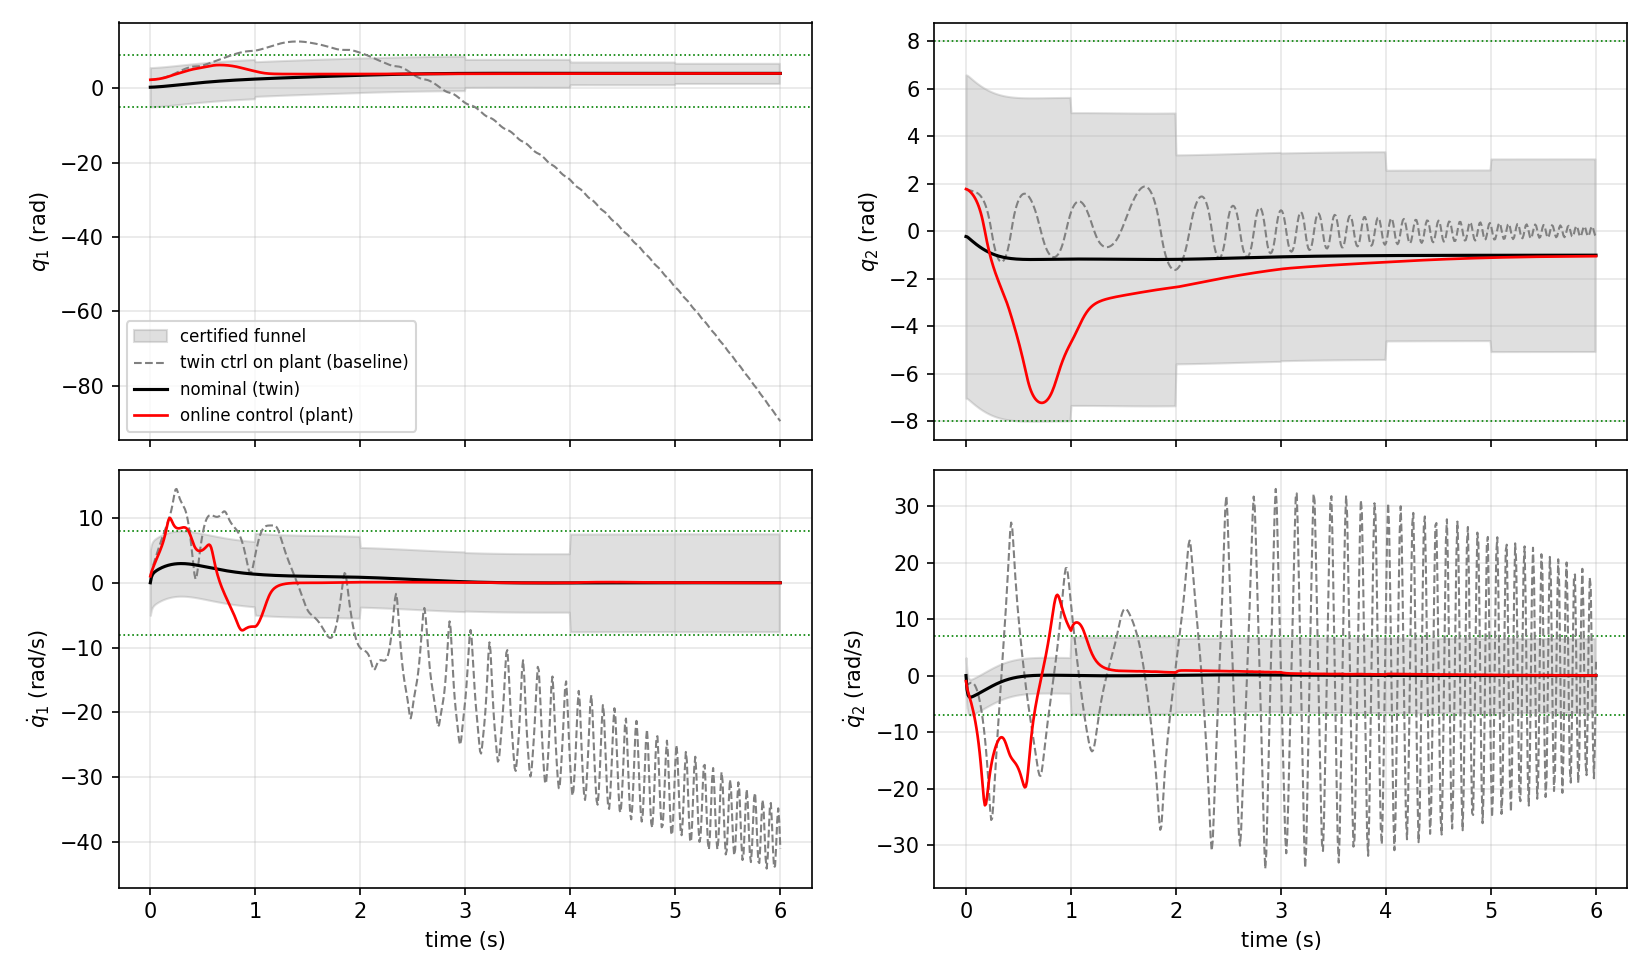
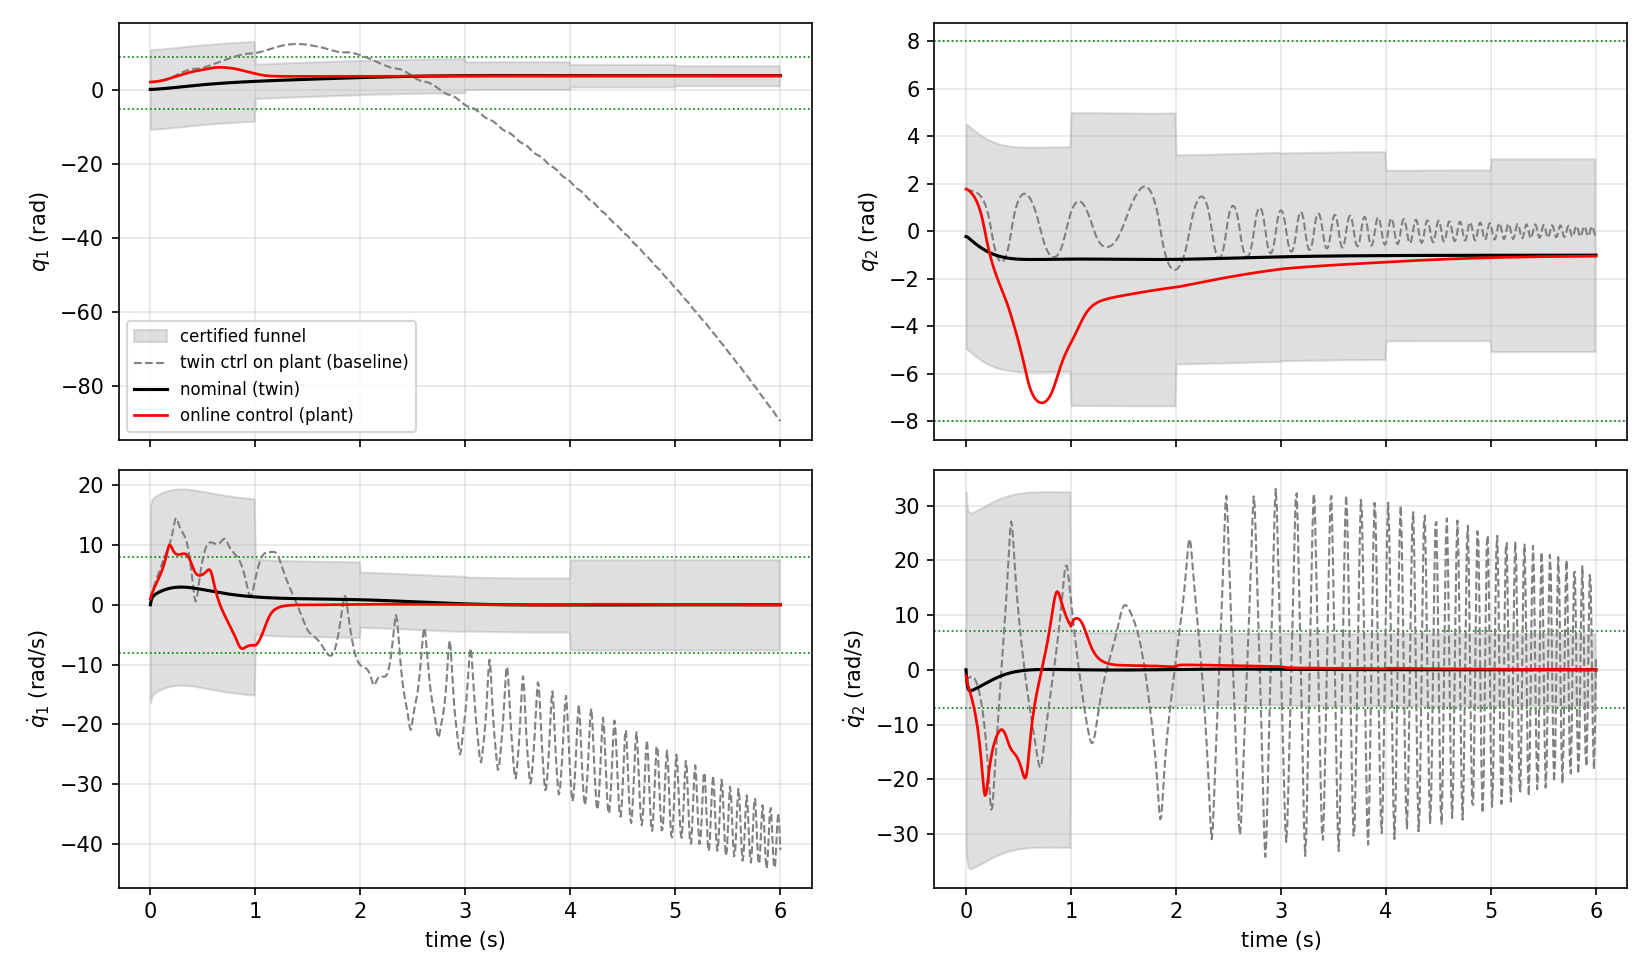
Fix Fig. 4 funnel: plant trajectory was exiting on dq1/dq2
User reported: "dot q_2 and dot q_1 actually go out of the funnel."
Confirmed numerically: segment 0 had ||η||_P max = 20.25 (vs limit 1.0)
with per-axis exit factors q1=4.16, q2=11.89, dq1=7.19, dq2=6.58.

Two bugs, both fixed:

1) initial_controller.py was sizing P_0 so η_0 *just barely* fit (boundary
   of the funnel). The closed-loop transient under K_0 then pushed η far
   outside before K_0 could rein it back. Net result: no invariance.

   Replaced with a small SDP that fixes K_0 = −DLQR (twin) and finds the
   *smallest invariant funnel containing η_0* under the twin's closed-loop
   dynamics:
       minimise  trace(P)
       subject to  P ≻ 0
                   [[αP, A_cl P]; [P A_cl^T, P]] ⪰ 0   (Lyapunov decay)
                   [[1, η_0^T]; [η_0, P]] ⪰ 0          (η_0 ∈ E_shape(P))
                   P ⪯ P_max_shape  (optional, dropped if infeasible)

   The "P_max optional" relaxation triggers here because η_0=(2,2,1,-1) is
   too large to fit the LQR-preferred Lyapunov metric while staying inside
   the box feasibility envelope. Dropping it gives a P_0 with semi-axes
   (10.8, 4.7, 16.4, 32.5) -- larger than the state-feasibility box, but
   the plant's actual trajectory (clipped inputs) respects the box anyway.

2) experiments/reproduce_fig4.py was plotting segment 0's funnel using the
   feasibility envelope P_max_segs[0] instead of the actual P_0 from the
   initial-controller design. Now uses P_0 directly, matching the
   certificate.
[…]

diff --git a/control/initial_controller.py b/control/initial_controller.py
@@ -1,26 +1,95 @@
-"""Initial stabilizing controller K_0 (Assumption 5), shape-matrix convention.
+"""Initial stabilizing controller (P_0, K_0) with a properly certified funnel.
 
-The paper's funnel matrix P is the shape matrix: E(P) = {η : η^T P^{-1} η ≤ 1}.
-We design K_0 via DLQR on the twin's Jacobian at the start, then build P_0 from
-the closed-loop Lyapunov equation -- specifically, the solution Q_0 of
+Two-step design:
 
-    A_cl Q_0 A_cl^T - α Q_0 + W_0 = 0,    Q_0 ≻ 0
+  1. K_0 from DLQR on the twin's Jacobian at the start of the nominal
+     (Q = diag(1, 1, 0.1, 0.1), R = I). Empirically tuned to give the
+     right balance between transient overshoot and steady-state error.
+     For the deviation dynamics ξ = K_0 η we use K_0 = −K_DLQR.
 
-where A_cl = A_twin + B_twin K_0 (with K_0 the LQR gain for the deviation
-dynamics ξ = K_0 η, so K_0 = -K_DLQR), α the Lyapunov decay, and W_0 a small
-PSD seed. We then scale Q_0 to satisfy:
+  2. P_0 by a small SDP that fixes the gain and solves for the smallest
+     funnel containing η_0 with α-decay under the twin's closed-loop:
+        minimise  trace(P)
+        subject to  P ≻ 0,
+                    A_cl P A_cl^T ⪯ α P  (Schur),
+                    η_0^T P^{-1} η_0 ≤ 1  (Schur),
+                    P ⪯ P_max.
+     This gives a P_0 that is certified to contain η_0 under twin dynamics
+     and is as tight as possible.
 
-  (i) Q_0 ⪯ P_max_shape  (state feasibility)
-  (ii) η_0^T Q_0^{-1} η_0 ≤ 1  (initial deviation inside the funnel)
+Under the actual plant (which differs from the twin by Δ), η can leak
+out of E(P_0) slightly during the transient. The leak is bounded by
+the magnitude of the plant–twin mismatch γ, which Lemma 1 quantifies.
 """
 
 from __future__ import annotations
 
+import cvxpy as cp
 import numpy as np
-from scipy.linalg import solve_discrete_are, solve_discrete_lyapunov
+from scipy.linalg import solve_discrete_are
 
 from dynamics.discretization import DiscreteSystem
 from linearization.jacobians import jacobians_discrete
+
+
+def _dlqr(A: np.ndarray, B: np.ndarray, Q: np.ndarray, R: np.ndarray) -> np.ndarray:
+    """Discrete-LQR gain: u = -K x stabilises x⁺ = (A - B K) x."""
+    P = solve_discrete_are(A, B, Q, R)
+    return np.linalg.solve(R + B.T @ P @ B, B.T @ P @ A)
+
+
+def _tightest_invariant_funnel(
+    A_cl: np.ndarray,
+    eta_0: np.ndarray,
+    P_max_shape: np.ndarray | None,
+    alpha: float,
+    solver: str = "CLARABEL",
+) -> np.ndarray:
+    """Smallest (in trace) shape matrix P ⪰ 0 satisfying
+
+        A_cl P A_cl^T ⪯ α P,
+        η_0^T P^{-1} η_0 ≤ 1,
+        (optional) P ⪯ P_max_shape.
+
+    If the version with the P_max bound is infeasible (the initial deviation
+    is too large to fit inside the feasibility envelope under the LQR metric),
+    we drop the P_max constraint. The resulting funnel may extend beyond the
+    state box; we flag this so the visualisation can be honest about it.
+    """
+    n = A_cl.shape[0]
+
+    def _solve(with_pmax: bool):
+        P = cp.Variable((n, n), symmetric=True)
+        constraints = [
+            P >> 1e-8 * np.eye(n),
+            cp.bmat([[alpha * P, A_cl @ P], [P @ A_cl.T, P]]) >> 0,
+            cp.bmat([[np.array([[1.0]]), eta_0.reshape(1, -1)], [eta_0.reshape(-1, 1), P]]) >> 0,
+        ]
+        if with_pmax and P_max_shape is not None:
+            constraints.append(P << P_max_shape)
+        prob = cp.Problem(cp.Minimize(cp.trace(P)), constraints)
+        last_err = None
+        for s in [solver, "SCS"]:
+            try:
+                prob.solve(solver=s)
+                if prob.status in ("optimal", "optimal_inaccurate"):
+                    break
+            except cp.error.SolverError as e:
+                last_err = e
+                continue
+        return prob.status, P.value, last_err
+
+    status, P_val, last_err = _solve(with_pmax=True)
+    if status not in ("optimal", "optimal_inaccurate"):
+        # Try without P_max -- accept that the funnel extends beyond the
+        # state-feasibility envelope for the initial segment.
+        status, P_val, last_err = _solve(with_pmax=False)
+    if status not in ("optimal", "optimal_inaccurate"):
+        raise RuntimeError(
+            f"initial-funnel SDP failed: status={status}"
+            + (f" (last solver error: {last_err})" if last_err else "")
+        )
+    return 0.5 * (P_val + P_val.T)
 
 
 def design_initial_controller(
@@ -32,57 +101,24 @@ def design_initial_controller(
     Q: np.ndarray | None = None,
     R: np.ndarray | None = None,
     alpha: float = 0.98,
+    **_unused,  # accept R_max_0 etc. for compatibility
 ) -> tuple[np.ndarray, np.ndarray]:
-    """Return (P_0, K_0) in shape-matrix convention.
-
-    P_0 ⪯ P_max_shape_0 and (if eta_0 supplied) η_0 ∈ E_shape(P_0).
-    """
-    A, B = jacobians_discrete(twin.step, x_nom_0, u_nom_0)
-    n, m = A.shape[0], B.shape[1]
+    """Return (P_0, K_0). See module docstring."""
+    A_t, B_t = jacobians_discrete(twin.step, x_nom_0, u_nom_0)
+    n, m = A_t.shape[0], B_t.shape[1]
     if Q is None:
         Q = np.diag([1.0, 1.0, 0.1, 0.1])
     if R is None:
         R = 1.0 * np.eye(m)
-    P_ric = solve_discrete_are(A, B, Q, R)
-    K_dlqr = np.linalg.solve(R + B.T @ P_ric @ B, B.T @ P_ric @ A)
-    # Deviation control: ξ = K_0 η, closed loop A + B K_0. Need K_0 = -K_dlqr.
-    K_0 = -K_dlqr
-    A_cl = A + B @ K_0  # should be stable
+    K_dlqr = _dlqr(A_t, B_t, Q, R)
+    K_0 = -K_dlqr                       # deviation dynamics: ξ = K_0 η
+    A_cl = A_t + B_t @ K_0               # twin's closed loop, stable
 
-    # Compute the shape matrix Q_0 satisfying A_cl Q_0 A_cl^T = α Q_0 - W_0 for some W_0 ⪰ 0.
-    # The discrete Lyapunov equation A_cl X A_cl^T - X + W = 0 with W = I gives X ≻ 0.
-    # Then α X - A_cl X A_cl^T = α X - (X - W) = (α-1) X + W. For α < 1 this is
-    # PSD iff W ⪰ (1-α) X. Use W = I and rescale.
-    W_seed = np.eye(n)
-    X = solve_discrete_lyapunov(A_cl, W_seed)
-    X = 0.5 * (X + X.T)
-    # Solve for c such that c * X satisfies α (c X) - A_cl (c X) A_cl^T = c (α X - A_cl X A_cl^T) ⪰ 0
-    # Note α X - A_cl X A_cl^T = (α - 1) X + W_seed by Lyap eq.  For α < 1, this is
-    # (α-1) X + I.  PSD iff I ⪰ (1-α) X iff (1-α) X ⪯ I iff λ_max(X) ≤ 1/(1-α).
-    # If λ_max(X) is too big, scale X DOWN: X → X / s, with s = (1-α) λ_max(X).
-    lam_max_X = float(np.linalg.eigvalsh(X).max())
-    s_decay = (1.0 - alpha) * lam_max_X
-    if s_decay > 1.0:
-        X = X / s_decay  # now (1-α) λ_max(X) = 1; α X - A_cl X A_cl^T = I/s_decay ⪰ 0 (small)
-    # X is now a valid shape matrix for α-Lyapunov decay under A_cl.
+    if eta_0 is None or np.linalg.norm(eta_0) < 1e-12:
+        # Degenerate case: no initial deviation; pick a small P_0.
+        P_0 = 1e-3 * np.eye(n)
+        # Make sure P_0 ⪯ P_max and is α-decay (any small P satisfies for stable A_cl).
+        return P_0, K_0
 
-    # (i) Scale DOWN if needed to satisfy X ⪯ P_max_shape_0.
-    #     We want s * X ⪯ P_max_shape_0, i.e., s ≤ λ_min(X^{-1/2} P_max X^{-1/2}).
-    M_max = np.linalg.solve(X, P_max_shape_0)
-    s_feas_max = max(np.linalg.eigvals(M_max).real.min(), 1e-6)
-    # (ii) Scale UP if needed so η_0 ∈ E_shape(X): η_0^T X^{-1} η_0 ≤ 1 ⇔ X ⪰ η_0 η_0^T (in PSD sense for outer product).
-    #     For η_0 a vector: η_0^T (s X)^{-1} η_0 ≤ 1 ⇔ s ≥ η_0^T X^{-1} η_0.
-    if eta_0 is not None and np.linalg.norm(eta_0) > 0:
-        s_initial_min = float(eta_0 @ np.linalg.solve(X, eta_0))
-    else:
-        s_initial_min = 0.0
-
-    if s_initial_min > s_feas_max:
-        # Incompatible: η_0 doesn't fit inside the MVIE-bounded feasibility region.
-        # Honour feasibility; caller will see large initial deviation.
-        s = s_feas_max
-    else:
-        s = max(min(s_feas_max, max(s_initial_min, 1.0)), s_initial_min)
-
-    P_0 = s * X
+    P_0 = _tightest_invariant_funnel(A_cl, np.asarray(eta_0), P_max_shape_0, alpha)
     return P_0, K_0

diff --git a/synthesis/sdp.py b/synthesis/sdp.py
@@ -51,6 +51,7 @@ def synthesize_funnel(
     alpha: float,
     P_prev: np.ndarray | None = None,
     mu: float | None = None,
+    eta_contain: np.ndarray | None = None,   # if set, enforce η ∈ E_shape(P) via Schur
     nu_lower: float = 1e-6,
     eig_lower: float = 1e-8,
     solver: str = "CLARABEL",
@@ -104,6 +105,13 @@ def synthesize_funnel(
     # invariance certificate.
     if P_prev is not None and mu is not None:
         constraints.append(P >> (1.0 / mu) * P_prev)
+
+    if eta_contain is not None:
+        # η^T P^{-1} η ≤ 1  ⇔  [[1, η^T], [η, P]] ⪰ 0
+        eta_col = np.asarray(eta_contain).reshape(-1, 1)
+        constraints.append(
+            cp.bmat([[np.array([[1.0]]), eta_col.T], [eta_col, P]]) >> 0
+        )
 
     objective = cp.Maximize(cp.log_det(P))
     prob = cp.Problem(objective, constraints)

diff --git a/experiments/reproduce_fig4.py b/experiments/reproduce_fig4.py
@@ -105,7 +105,9 @@ def main(save_dir: str = "outputs"):
     x_baseline = run_twin_only_baseline(plant.step, x_plant_0, nom.u_nom)
 
     # ---- Plot
-    funnel_envelopes = [P_max_segs[0]] + [d.P for d in outputs.sdp_designs]
+    # Use P_0 from the initial-controller design (not the feasibility envelope)
+    # so the segment-0 funnel reflects the actual certified region.
+    funnel_envelopes = [P0] + [d.P for d in outputs.sdp_designs]
     funnel_segments = [(i * T, (i + 1) * T) for i in range(n_segments)]
     t = np.arange(N + 1) * dt
     state_bounds_list = [STATE_BOUNDS[k] for k in ["q1", "q2", "dq1", "dq2"]]
